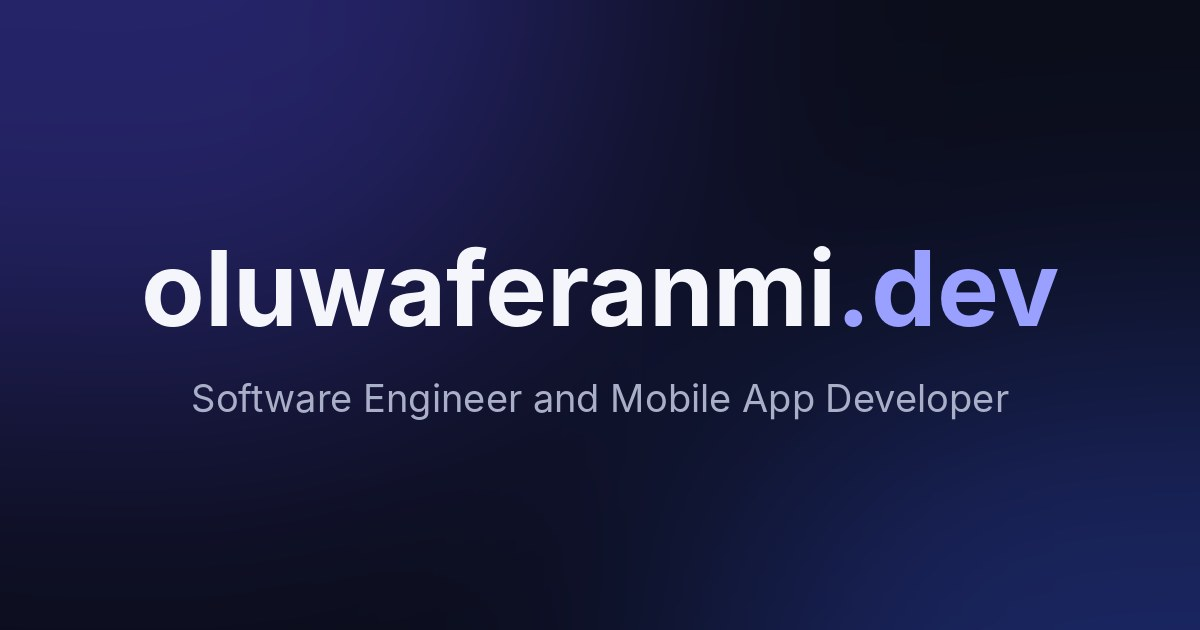
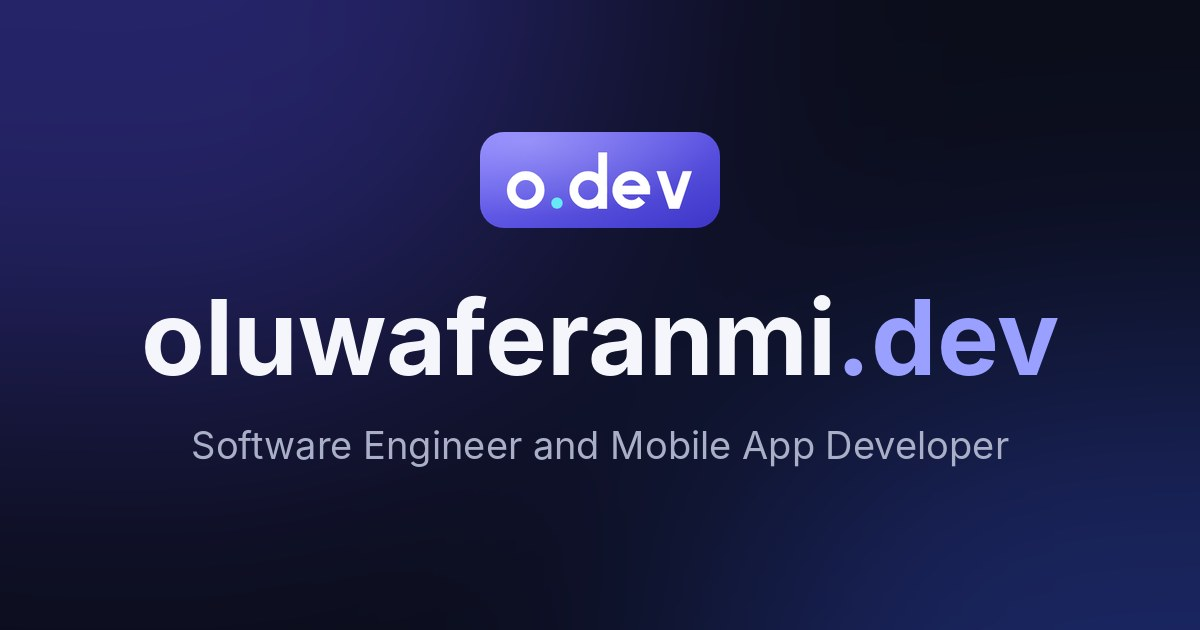
home edit 1

Changed region(s): [[0.1233, 0.3921, 0.8942, 0.754], [0.4008, 0.2111, 0.6167, 0.3619]]

diff --git a/portfolio/public/home.html b/portfolio/public/home.html
@@ -16,7 +16,9 @@
   <meta property="og:image:height" content="630" />
   <meta property="og:image:alt" content="oluwaferanmi.dev, Software Engineer and Mobile App Developer" />
   <meta name="twitter:card" content="summary_large_image" />
-  <link rel="icon" href="images/favicon.png" />
+  <link rel="icon" href="images/favicon.svg" type="image/svg+xml" />
+  <link rel="icon" href="images/favicon-32.png" type="image/png" sizes="32x32" />
+  <link rel="apple-touch-icon" href="images/apple-touch-icon.png" />
   <link rel="preconnect" href="https://fonts.googleapis.com" />
   <link rel="preconnect" href="https://fonts.gstatic.com" crossorigin />
   <link href="https://fonts.googleapis.com/css2?family=Plus+Jakarta+Sans:wght@400;500;600;700;800&display=swap" rel="stylesheet" />
@@ -32,7 +34,7 @@
 
   <header class="site-header">
     <nav class="nav container" aria-label="Main">
-      <a href="home.html" class="logo">oluwaferanmi<span>.dev</span></a>
+      <a href="home.html" class="logo" aria-label="Oluwaferanmi, home"><svg class="logo-svg" viewBox="-3 -3 283 90" aria-hidden="true" focusable="false"><circle class="lg-o" cx="28" cy="56.0" r="21.5" fill="none" stroke-width="13" /><circle class="lg-dot" cx="74.5" cy="75.5" r="8.5" fill="currentColor"/><g class="lg-dev" fill="none" stroke-width="13" ><circle cx="121" cy="56.0" r="21.5"/><path d="M142.5 0V84" /><circle cx="0" cy="0" r="0" stroke="none"/><path d="M206.5 56.0A21.5 21.5 0 1 0 200.98 70.39"/><path d="M163.5 56.0H213.0"/><clipPath id="vc"><rect x="215" y="28" width="70" height="56"/></clipPath><g clip-path="url(#vc)" stroke-linejoin="miter" stroke-miterlimit="8"><path d="M227.5 22L249 86L270.5 22"/></g></g></svg></a>
       <ul class="nav-links" id="nav-links">
         <li><a href="home.html" aria-current="page">Home</a></li>
         <li><a href="projects.html">Projects</a></li>

diff --git a/portfolio/public/projects.html b/portfolio/public/projects.html
@@ -16,7 +16,9 @@
   <meta property="og:image:height" content="630" />
   <meta property="og:image:alt" content="oluwaferanmi.dev, Software Engineer and Mobile App Developer" />
   <meta name="twitter:card" content="summary_large_image" />
-  <link rel="icon" href="images/favicon.png" />
+  <link rel="icon" href="images/favicon.svg" type="image/svg+xml" />
+  <link rel="icon" href="images/favicon-32.png" type="image/png" sizes="32x32" />
+  <link rel="apple-touch-icon" href="images/apple-touch-icon.png" />
   <link rel="preconnect" href="https://fonts.googleapis.com" />
   <link rel="preconnect" href="https://fonts.gstatic.com" crossorigin />
   <link href="https://fonts.googleapis.com/css2?family=Plus+Jakarta+Sans:wght@400;500;600;700;800&display=swap" rel="stylesheet" />
@@ -32,7 +34,7 @@
 
   <header class="site-header">
     <nav class="nav container" aria-label="Main">
-      <a href="home.html" class="logo">oluwaferanmi<span>.dev</span></a>
+      <a href="home.html" class="logo" aria-label="Oluwaferanmi, home"><svg class="logo-svg" viewBox="-3 -3 283 90" aria-hidden="true" focusable="false"><circle class="lg-o" cx="28" cy="56.0" r="21.5" fill="none" stroke-width="13" /><circle class="lg-dot" cx="74.5" cy="75.5" r="8.5" fill="currentColor"/><g class="lg-dev" fill="none" stroke-width="13" ><circle cx="121" cy="56.0" r="21.5"/><path d="M142.5 0V84" /><circle cx="0" cy="0" r="0" stroke="none"/><path d="M206.5 56.0A21.5 21.5 0 1 0 200.98 70.39"/><path d="M163.5 56.0H213.0"/><clipPath id="vc"><rect x="215" y="28" width="70" height="56"/></clipPath><g clip-path="url(#vc)" stroke-linejoin="miter" stroke-miterlimit="8"><path d="M227.5 22L249 86L270.5 22"/></g></g></svg></a>
       <ul class="nav-links" id="nav-links">
         <li><a href="home.html">Home</a></li>
         <li><a href="projects.html" aria-current="page">Projects</a></li>

diff --git a/portfolio/public/about.html b/portfolio/public/about.html
@@ -16,7 +16,9 @@
   <meta property="og:image:height" content="630" />
   <meta property="og:image:alt" content="oluwaferanmi.dev, Software Engineer and Mobile App Developer" />
   <meta name="twitter:card" content="summary_large_image" />
-  <link rel="icon" href="images/favicon.png" />
+  <link rel="icon" href="images/favicon.svg" type="image/svg+xml" />
+  <link rel="icon" href="images/favicon-32.png" type="image/png" sizes="32x32" />
+  <link rel="apple-touch-icon" href="images/apple-touch-icon.png" />
   <link rel="preconnect" href="https://fonts.googleapis.com" />
   <link rel="preconnect" href="https://fonts.gstatic.com" crossorigin />
   <link href="https://fonts.googleapis.com/css2?family=Plus+Jakarta+Sans:wght@400;500;600;700;800&display=swap" rel="stylesheet" />
@@ -32,7 +34,7 @@
 
   <header class="site-header">
     <nav class="nav container" aria-label="Main">
-      <a href="home.html" class="logo">oluwaferanmi<span>.dev</span></a>
+      <a href="home.html" class="logo" aria-label="Oluwaferanmi, home"><svg class="logo-svg" viewBox="-3 -3 283 90" aria-hidden="true" focusable="false"><circle class="lg-o" cx="28" cy="56.0" r="21.5" fill="none" stroke-width="13" /><circle class="lg-dot" cx="74.5" cy="75.5" r="8.5" fill="currentColor"/><g class="lg-dev" fill="none" stroke-width="13" ><circle cx="121" cy="56.0" r="21.5"/><path d="M142.5 0V84" /><circle cx="0" cy="0" r="0" stroke="none"/><path d="M206.5 56.0A21.5 21.5 0 1 0 200.98 70.39"/><path d="M163.5 56.0H213.0"/><clipPath id="vc"><rect x="215" y="28" width="70" height="56"/></clipPath><g clip-path="url(#vc)" stroke-linejoin="miter" stroke-miterlimit="8"><path d="M227.5 22L249 86L270.5 22"/></g></g></svg></a>
       <ul class="nav-links" id="nav-links">
         <li><a href="home.html">Home</a></li>
         <li><a href="projects.html">Projects</a></li>

diff --git a/portfolio/public/contact.html b/portfolio/public/contact.html
@@ -16,7 +16,9 @@
   <meta property="og:image:height" content="630" />
   <meta property="og:image:alt" content="oluwaferanmi.dev, Software Engineer and Mobile App Developer" />
   <meta name="twitter:card" content="summary_large_image" />
-  <link rel="icon" href="images/favicon.png" />
+  <link rel="icon" href="images/favicon.svg" type="image/svg+xml" />
+  <link rel="icon" href="images/favicon-32.png" type="image/png" sizes="32x32" />
+  <link rel="apple-touch-icon" href="images/apple-touch-icon.png" />
   <link rel="preconnect" href="https://fonts.googleapis.com" />
   <link rel="preconnect" href="https://fonts.gstatic.com" crossorigin />
   <link href="https://fonts.googleapis.com/css2?family=Plus+Jakarta+Sans:wght@400;500;600;700;800&display=swap" rel="stylesheet" />
@@ -32,7 +34,7 @@
 
   <header class="site-header">
     <nav class="nav container" aria-label="Main">
-      <a href="home.html" class="logo">oluwaferanmi<span>.dev</span></a>
+      <a href="home.html" class="logo" aria-label="Oluwaferanmi, home"><svg class="logo-svg" viewBox="-3 -3 283 90" aria-hidden="true" focusable="false"><circle class="lg-o" cx="28" cy="56.0" r="21.5" fill="none" stroke-width="13" /><circle class="lg-dot" cx="74.5" cy="75.5" r="8.5" fill="currentColor"/><g class="lg-dev" fill="none" stroke-width="13" ><circle cx="121" cy="56.0" r="21.5"/><path d="M142.5 0V84" /><circle cx="0" cy="0" r="0" stroke="none"/><path d="M206.5 56.0A21.5 21.5 0 1 0 200.98 70.39"/><path d="M163.5 56.0H213.0"/><clipPath id="vc"><rect x="215" y="28" width="70" height="56"/></clipPath><g clip-path="url(#vc)" stroke-linejoin="miter" stroke-miterlimit="8"><path d="M227.5 22L249 86L270.5 22"/></g></g></svg></a>
       <ul class="nav-links" id="nav-links">
         <li><a href="home.html">Home</a></li>
         <li><a href="projects.html">Projects</a></li>

diff --git a/portfolio/public/404.html b/portfolio/public/404.html
@@ -5,7 +5,9 @@
   <meta name="viewport" content="width=device-width, initial-scale=1.0" />
   <title>Page not found | oluwaferanmi.dev</title>
   <meta name="robots" content="noindex" />
-  <link rel="icon" href="/images/favicon.png" />
+  <link rel="icon" href="/images/favicon.svg" type="image/svg+xml" />
+  <link rel="icon" href="/images/favicon-32.png" type="image/png" sizes="32x32" />
+  <link rel="apple-touch-icon" href="/images/apple-touch-icon.png" />
   <link rel="preconnect" href="https://fonts.googleapis.com" />
   <link rel="preconnect" href="https://fonts.gstatic.com" crossorigin />
   <link href="https://fonts.googleapis.com/css2?family=Plus+Jakarta+Sans:wght@400;500;600;700;800&display=swap" rel="stylesheet" />
@@ -21,7 +23,7 @@
 
   <header class="site-header">
     <nav class="nav container" aria-label="Main">
-      <a href="/home.html" class="logo">oluwaferanmi<span>.dev</span></a>
+      <a href="/home.html" class="logo" aria-label="Oluwaferanmi, home"><svg class="logo-svg" viewBox="-3 -3 283 90" aria-hidden="true" focusable="false"><circle class="lg-o" cx="28" cy="56.0" r="21.5" fill="none" stroke-width="13" /><circle class="lg-dot" cx="74.5" cy="75.5" r="8.5" fill="currentColor"/><g class="lg-dev" fill="none" stroke-width="13" ><circle cx="121" cy="56.0" r="21.5"/><path d="M142.5 0V84" /><circle cx="0" cy="0" r="0" stroke="none"/><path d="M206.5 56.0A21.5 21.5 0 1 0 200.98 70.39"/><path d="M163.5 56.0H213.0"/><clipPath id="vc"><rect x="215" y="28" width="70" height="56"/></clipPath><g clip-path="url(#vc)" stroke-linejoin="miter" stroke-miterlimit="8"><path d="M227.5 22L249 86L270.5 22"/></g></g></svg></a>
       <ul class="nav-links" id="nav-links">
         <li><a href="/home.html">Home</a></li>
         <li><a href="/projects.html">Projects</a></li>

diff --git a/portfolio/public/css/style.css b/portfolio/public/css/style.css
@@ -19,6 +19,7 @@
   --glow-a: rgba(79, 70, 229, 0.16);
   --glow-b: rgba(14, 165, 233, 0.14);
   --dot: #CDD2E8;
+  --cyan: #06B6D4;
   --font: "Plus Jakarta Sans", system-ui, -apple-system, "Segoe UI", Roboto, sans-serif;
 }
 
@@ -35,6 +36,7 @@
   --glow-a: rgba(99, 102, 241, 0.30);
   --glow-b: rgba(34, 211, 238, 0.13);
   --dot: #262B52;
+  --cyan: #67E8F9;
 }
 
 @media (prefers-color-scheme: dark) {
@@ -51,6 +53,7 @@
     --glow-a: rgba(99, 102, 241, 0.30);
     --glow-b: rgba(34, 211, 238, 0.13);
     --dot: #262B52;
+  --cyan: #67E8F9;
   }
 }
 
@@ -111,7 +114,11 @@ h3 { font-size: 1.15rem; font-weight: 700; letter-spacing: -0.02em; }
   border-bottom: 1px solid var(--line);
 }
 .nav { height: 68px; display: flex; align-items: center; justify-content: space-between; gap: 16px; }
-.logo { font-weight: 800; font-size: 1.15rem; letter-spacing: -0.03em; }
+.logo { display: inline-flex; align-items: center; color: var(--text); }
+.logo-svg { display: block; height: 26px; width: auto; flex: none; overflow: visible; }
+.logo-svg .lg-o { stroke: currentColor; }
+.logo-svg .lg-dev { stroke: var(--accent); }
+.logo-svg .lg-dot { fill: var(--cyan); }
 .logo span { color: var(--accent); }
 .nav-links { display: flex; gap: 4px; }
 .nav-links a {
